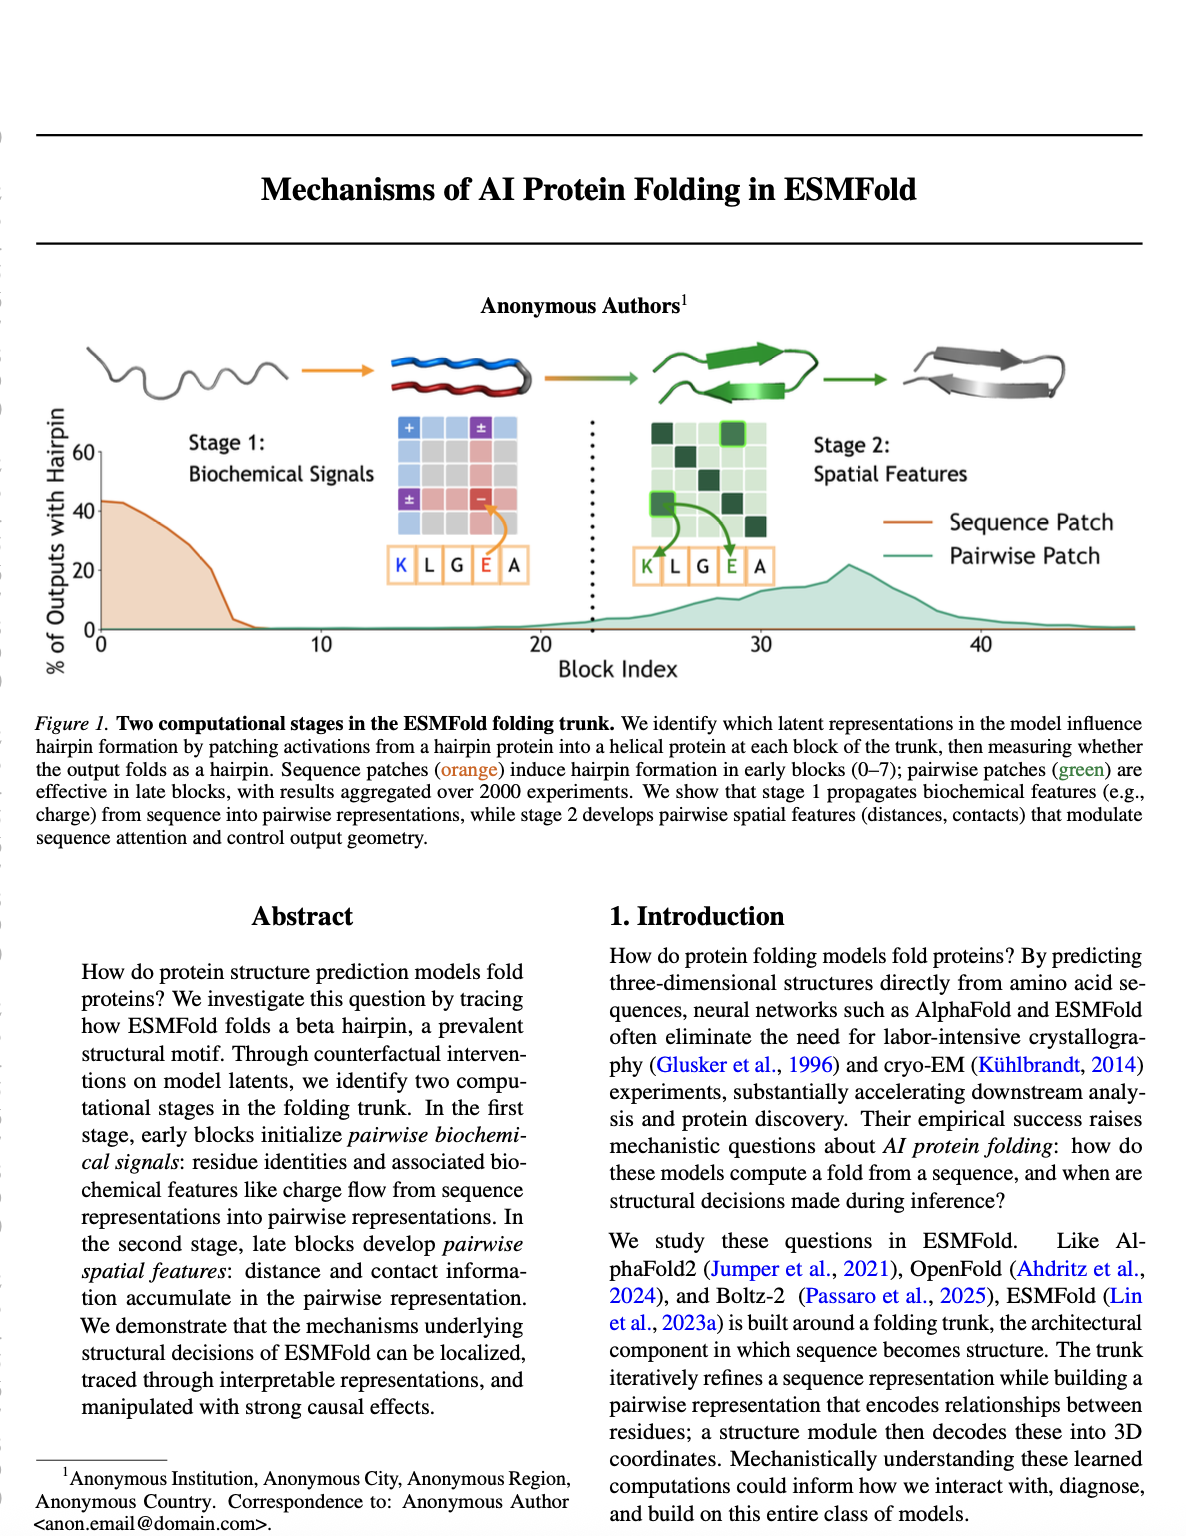
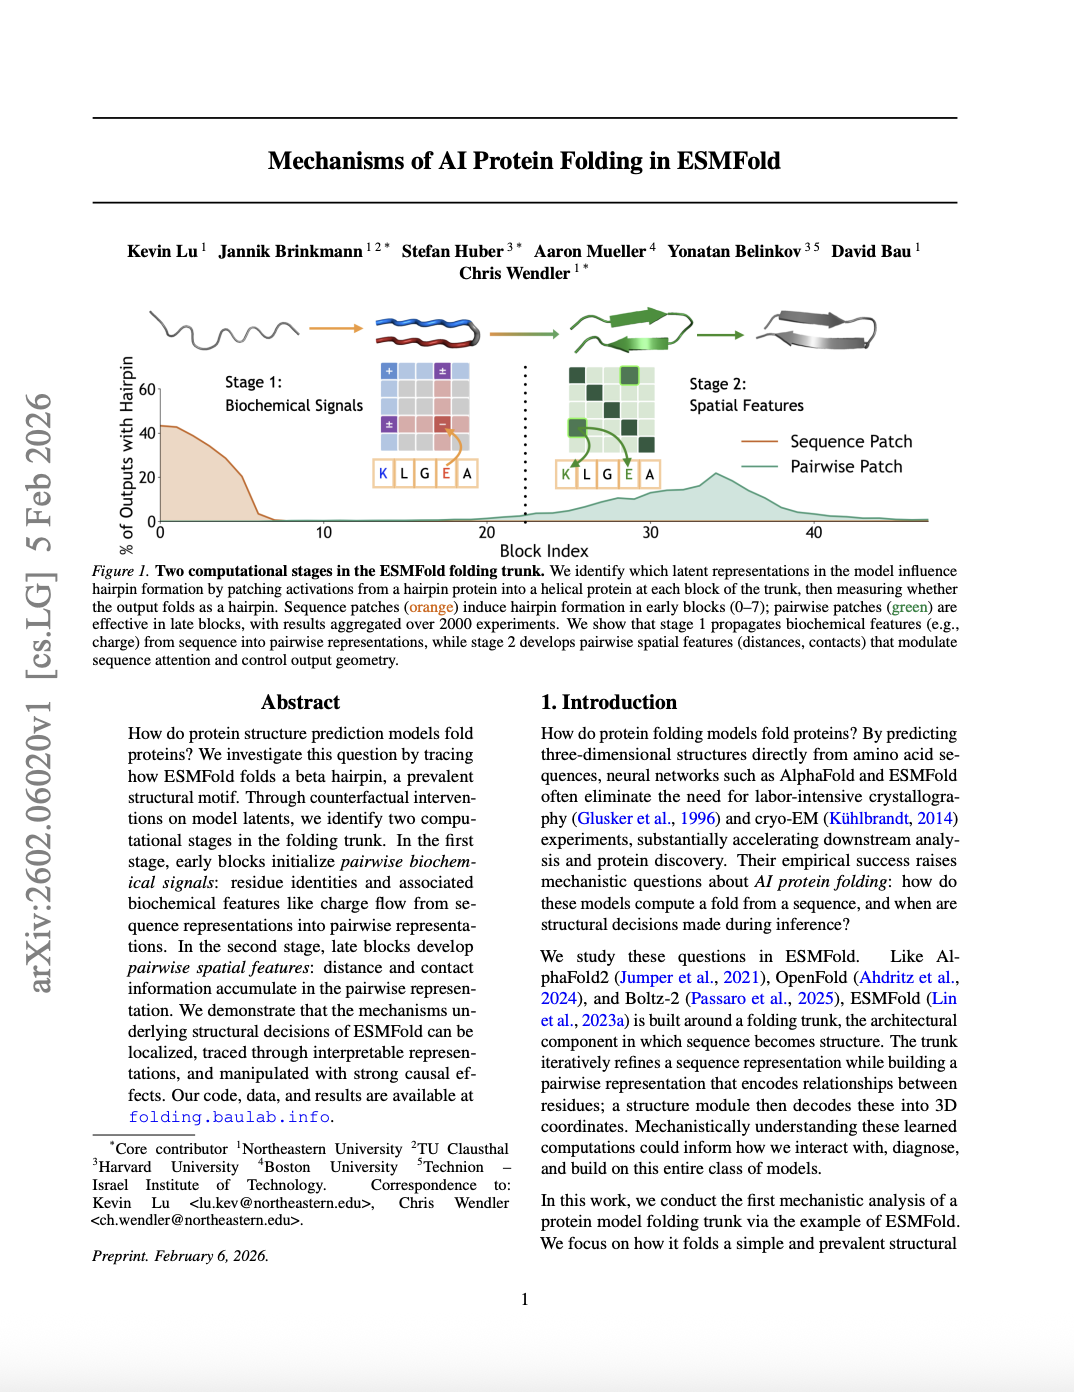
Updated author links

Changed region(s): [[0.0, 0.0618, 0.9832, 1.0], [0.0307, 0.9576, 0.4916, 1.0]]

diff --git a/src/index.html b/src/index.html
@@ -49,14 +49,22 @@
 
 /* Green biology theme */
 .nd-pageheader {
-  background-color: rgba(61, 184, 122, 0.8) !important;
+  background-color: rgba(61, 154, 112, 0.35) !important;
   color: #000 !important;
 }
 .nd-pageheader h1, .nd-pageheader address {
   color: #000 !important;
 }
+.nd-pageheader address a {
+  color: #000 !important;
+  text-decoration: none;
+  border-bottom: 1px dashed rgba(0,0,0,0.4);
+}
+.nd-pageheader address a:hover {
+  border-bottom: 1px solid #000;
+}
 .nd-pagefooter {
-  background-color: rgba(61, 184, 122, 0.8) !important;
+  background-color: rgba(61, 154, 112, 0.35) !important;
   color: #000 !important;
 }
 .nd-pagefooter a {
@@ -108,13 +116,13 @@ gtag('js', new Date()); gtag('config', 'G-FD12LWN557');
  Mechanisms of AI Protein Folding in ESMFold
  </h1>
 <address>
-  <nobr>Kevin Lu<sup>1</sup>,</nobr>
-  <nobr>Jannik Brinkmann<sup>1,2</sup>,</nobr>
-  <nobr>Stefan Huber<sup>3</sup>,</nobr>
-  <nobr>Aaron Mueller<sup>4</sup>,</nobr>
-  <nobr>Yonatan Belinkov<sup>5</sup>,</nobr>
-  <nobr>David Bau<sup>1</sup>,</nobr>
-  <nobr>Chris Wendler<sup>1</sup></nobr>
+  <nobr><a href="https://kevinlu4588.github.io/">Kevin Lu</a><sup>1</sup>,</nobr>
+  <nobr><a href="https://jannik-brinkmann.github.io/">Jannik Brinkmann</a><sup>1,2</sup>,</nobr>
+  <nobr><a href="https://cryoem.hms.harvard.edu/people/stefan-huber">Stefan Huber</a><sup>3</sup>,</nobr>
+  <nobr><a href="https://aaronmueller.github.io/">Aaron Mueller</a><sup>4</sup>,</nobr>
+  <nobr><a href="https://belinkov.com/">Yonatan Belinkov</a><sup>5</sup>,</nobr>
+  <nobr><a href="https://baulab.info/">David Bau</a><sup>1</sup>,</nobr>
+  <nobr><a href="https://wendlerc.github.io/">Chris Wendler</a><sup>1</sup></nobr>
  <br>
   <nobr><sup>1</sup>Northeastern University,</nobr>
   <nobr><sup>2</sup>TU Clausthal,</nobr>
@@ -460,7 +468,7 @@ Dill, K. A., Ozkan, S. B., Shell, M. S., & Weikl, T. R. (2008). The protein fold
 <h3 class="card-header">bibliography</h3>
 <div class="card-block">
 <p style="text-indent: -3em; margin-left: 3em;" class="card-text clickselect">
-Lu, K., Brinkmann, J., Huber, S., Mueller, A., Belinkov, Y., Bau, D., &amp; Wendler, C. (2026). Mechanisms of AI Protein Folding in ESMFold. <em>arXiv preprint arXiv:xxxx.xxxxx</em>.
+Lu, K., Brinkmann, J., Huber, S., Mueller, A., Belinkov, Y., Bau, D., &amp; Wendler, C. (2026). Mechanisms of AI Protein Folding in ESMFold. <em>arXiv preprint arXiv:2602.02620</em>.
 </p>
 </div>
 <h3 class="card-header">bibtex</h3>

diff --git a/public/index.html b/public/index.html
@@ -49,14 +49,22 @@
 
 /* Green biology theme */
 .nd-pageheader {
-  background-color: rgba(61, 184, 122, 0.8) !important;
+  background-color: rgba(61, 154, 112, 0.35) !important;
   color: #000 !important;
 }
 .nd-pageheader h1, .nd-pageheader address {
   color: #000 !important;
 }
+.nd-pageheader address a {
+  color: #000 !important;
+  text-decoration: none;
+  border-bottom: 1px dashed rgba(0,0,0,0.4);
+}
+.nd-pageheader address a:hover {
+  border-bottom: 1px solid #000;
+}
 .nd-pagefooter {
-  background-color: rgba(61, 184, 122, 0.8) !important;
+  background-color: rgba(61, 154, 112, 0.35) !important;
   color: #000 !important;
 }
 .nd-pagefooter a {
@@ -108,13 +116,13 @@ gtag('js', new Date()); gtag('config', 'G-FD12LWN557');
  Mechanisms of AI Protein Folding in ESMFold
  </h1>
 <address>
-  <nobr>Kevin Lu<sup>1</sup>,</nobr>
-  <nobr>Jannik Brinkmann<sup>1,2</sup>,</nobr>
-  <nobr>Stefan Huber<sup>3</sup>,</nobr>
-  <nobr>Aaron Mueller<sup>4</sup>,</nobr>
-  <nobr>Yonatan Belinkov<sup>5</sup>,</nobr>
-  <nobr>David Bau<sup>1</sup>,</nobr>
-  <nobr>Chris Wendler<sup>1</sup></nobr>
+  <nobr><a href="https://kevinlu4588.github.io/">Kevin Lu</a><sup>1</sup>,</nobr>
+  <nobr><a href="https://jannik-brinkmann.github.io/">Jannik Brinkmann</a><sup>1,2</sup>,</nobr>
+  <nobr><a href="https://cryoem.hms.harvard.edu/people/stefan-huber">Stefan Huber</a><sup>3</sup>,</nobr>
+  <nobr><a href="https://aaronmueller.github.io/">Aaron Mueller</a><sup>4</sup>,</nobr>
+  <nobr><a href="https://belinkov.com/">Yonatan Belinkov</a><sup>5</sup>,</nobr>
+  <nobr><a href="https://baulab.info/">David Bau</a><sup>1</sup>,</nobr>
+  <nobr><a href="https://wendlerc.github.io/">Chris Wendler</a><sup>1</sup></nobr>
  <br>
   <nobr><sup>1</sup>Northeastern University,</nobr>
   <nobr><sup>2</sup>TU Clausthal,</nobr>
